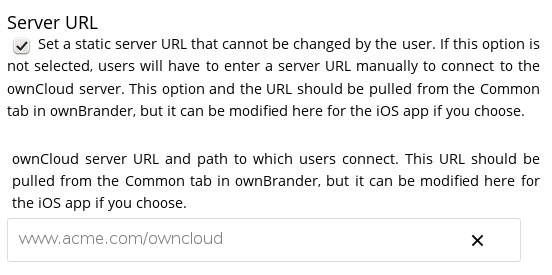
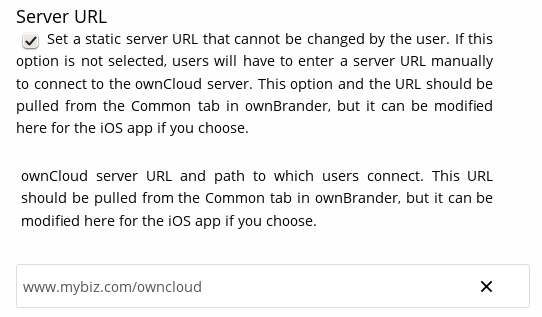
updated screenshots and corrections

Changed region(s): [[0.0, 0.0291, 1.0, 0.4364], [0.0, 0.5236, 0.9742, 0.7564], [0.0295, 0.7855, 0.9742, 0.96]]

diff --git a/admin_manual/enterprise_ios_app/publishing_ios_app_7.rst b/admin_manual/enterprise_ios_app/publishing_ios_app_7.rst
@@ -2,13 +2,13 @@
 Building Your iOS App With ownBrander
 =====================================
 
-At last you have arrived to the point where you can actually build your 
-branded iOS app. Log into your account on `Customer.owncloud.com 
+At long last you have arrived at the point where you can actually build your 
+branded iOS app. Log into your account on `Customer.owncloud.com/owncloud 
 <https://customer.owncloud.com/owncloud/>`_ and open the ownBrander app.
 
 .. figure:: ../images/ownbrander-1.png
 
-If you don't see the ownBrander app, open a support request (Open Case 
+If you don't see the ownBrander app, open a support request (**Open Case** 
 button).
 
 Your first ownBrander task is to review the iOS page on ownBrander for your 
@@ -71,13 +71,11 @@ into the app. The ownBuilder app tells you exactly which images you need, and
 their required size. Click the example images on the right to enlarge them.
 
 .. figure:: ../images/ownbrander-14.png
-   :scale: 70%
    
 You may enter a custom **User agent**, which is useful for traffic analysis and 
 whitelisting your app.
    
 .. figure:: ../images/ownbrander-22.png
-   :scale: 70%
 
 Check **Recommend** to open a Twitter, Facebook, and Email recommendation 
 configurator.
@@ -132,4 +130,3 @@ button the build system will use your latest changes.
 Check your account on `Customer.owncloud.com 
 <https://customer.owncloud.com/owncloud/>`_ in 48 hours to see your new branded 
 ownCloud app.
-

diff --git a/admin_manual/enterprise_ios_app/publishing_ios_app_6.rst b/admin_manual/enterprise_ios_app/publishing_ios_app_6.rst
@@ -9,12 +9,10 @@ that you created at the beginning (see
 :doc:`../enterprise_ios_app/publishing_ios_app_2`). 
 
 .. figure:: ../images/ios-p12.png
-   :scale: 80%
     
 Right-click on your private key and left-click **Export [your key name]**.   
 
 .. figure:: ../images/ios-p12-2.png
-   :scale: 80%
    
 Enter any name you want, the location you want to save it to, and click 
 **Save**.    
@@ -23,14 +21,18 @@ Enter any name you want, the location you want to save it to, and click
    
 In the next screen you have the option to enter a password. If you put a 
 password on your P12 certificate you will have to include it when you send your 
-certificate and provisioning profiles to branding@owncloud.com. Click OK.
+certificate and provisioning profiles to branding@owncloud.com. Click **OK**.
 
 .. figure:: ../images/ios-p12-4.png
 
 On the next screen you must enter your login keychain password, which is your 
-Mac login password.
+Mac login password, and click **Allow**.
 
 .. figure:: ../images/ios-p12-5.png
+
+Now your new P12 certificate should be in the directory you saved it in.
+
+.. figure:: ../images/ios-p12-6.png
 
 You have now completed all the necessary steps for signing your branded iOS 
 app. The next step is to build your app with the ownBrander app on 

diff --git a/admin_manual/enterprise_ios_app/publishing_ios_app_8.rst b/admin_manual/enterprise_ios_app/publishing_ios_app_8.rst
@@ -3,7 +3,8 @@ Testing Your New Branded iOS App
 ================================
 
 You'll distribute the file with the :file:`.ipa` extension, like our example 
-:file:`Acme iOS App-3.4.201.ipa`, from your `<https://customer.owncloud.com>`_ 
+:file:`MyBiz iOS App-3.4.201.ipa`, from your 
+`<https://customer.owncloud.com/owncloud>`_ 
 account to your beta testers. To do this you'll need a Mac computer, an iPhone 
 or iPad registered in your Apple developer account, and the iTunes account 
 associated with your Apple developer account.
